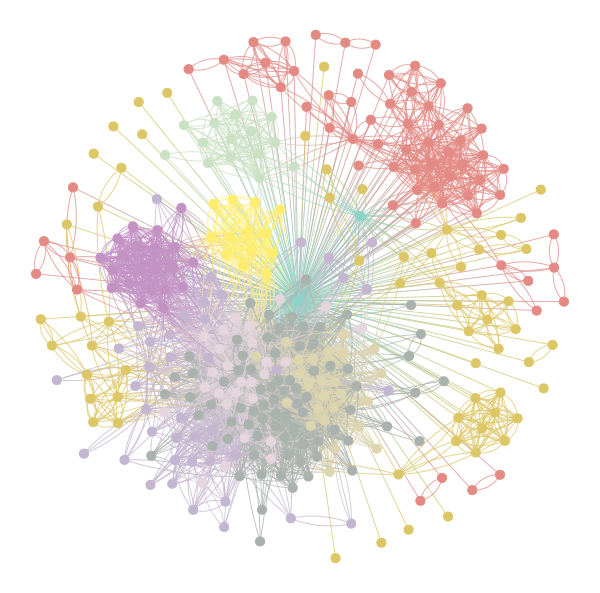
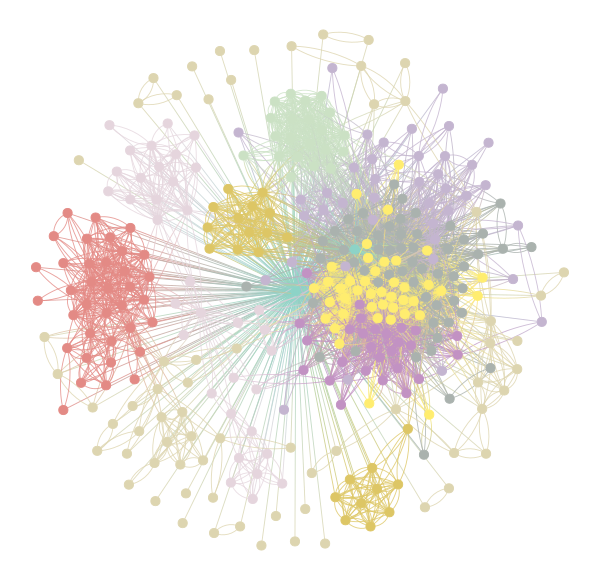
MVP Softmax classifier

diff --git a/code/inference/softmax.py b/code/inference/softmax.py
@@ -1,0 +1,157 @@
+# adapted from http://www.adeveloperdiary.com/data-science/deep-learning/neural-network-with-softmax-in-python/
+
+import numpy as np
+import matplotlib.pylab as plt
+from sklearn.preprocessing import OneHotEncoder
+
+
+class SoftmaxNeuralNet:
+
+
+    def __init__(self, layers_size):
+        """Initialise Neural Network"""
+        self.layers_size = layers_size
+        self.parameters = {}
+        self.L = len(self.layers_size)
+        self.n = 0
+        self.costs = []
+
+
+    def sigmoid(self, Z):
+        return 1 / (1 + np.exp(-Z))
+
+
+    def softmax(self, Z):
+        expZ = np.exp(Z - np.max(Z))
+        return expZ / expZ.sum(axis=0, keepdims=True)
+
+
+    def _initialize_parameters(self):
+        np.random.seed(1)
+
+        for l in range(1, len(self.layers_size)):
+            self.parameters["W" + str(l)] = np.random.randn(self.layers_size[l], self.layers_size[l - 1]) / np.sqrt(
+                self.layers_size[l - 1])
+            self.parameters["b" + str(l)] = np.zeros((self.layers_size[l], 1))
+
+
+    def _forward(self, X):
+        store = {}
+
+        A = X.T
+        ## hidden sigmoid layers
+        for l in range(self.L - 1):
+            Z = self.parameters["W" + str(l + 1)].dot(A) + \
+                self.parameters["b" + str(l + 1)]
+            A = self.sigmoid(Z)
+            store["A" + str(l + 1)] = A
+            store["W" + str(l + 1)] = self.parameters["W" + str(l + 1)]
+            store["Z" + str(l + 1)] = Z
+
+        ## final softmax layer
+        Z = self.parameters["W" + str(self.L)].dot(A) + \
+            self.parameters["b" + str(self.L)]
+        A = self.softmax(Z)
+        store["A" + str(self.L)] = A
+        store["W" + str(self.L)] = self.parameters["W" + str(self.L)]
+        store["Z" + str(self.L)] = Z
+
+        return A, store
+
+
+    def _sigmoid_derivative(self, Z):
+        s = 1 / (1 + np.exp(-Z))
+        return s * (1 - s)
+
+
+    def _backward(self, X, Y, store):
+
+        derivatives = {}
+
+        store["A0"] = X.T
+
+        A = store["A" + str(self.L)]
+        dZ = A - Y.T
+
+        dW = dZ.dot(store["A" + str(self.L - 1)].T) / self.n
+        db = np.sum(dZ, axis=1, keepdims=True) / self.n
+        dAPrev = store["W" + str(self.L)].T.dot(dZ)
+
+        derivatives["dW" + str(self.L)] = dW
+        derivatives["db" + str(self.L)] = db
+
+        for l in range(self.L - 1, 0, -1):
+            dZ = dAPrev * self._sigmoid_derivative(store["Z" + str(l)])
+            dW = 1. / self.n * dZ.dot(store["A" + str(l - 1)].T)
+            db = 1. / self.n * np.sum(dZ, axis=1, keepdims=True)
+            if l > 1:
+                dAPrev = store["W" + str(l)].T.dot(dZ)
+
+            derivatives["dW" + str(l)] = dW
+            derivatives["db" + str(l)] = db
+
+        return derivatives
+
+
+    def fit(self, X, Y, learning_rate=0.01, n_iterations=2500, seed=None):
+        """
+        Train params of Neural Net:
+            X : (n, d) array - where n is num training points and d is dimension (num features)
+            Y : (n, k) array - one-hot encoding of class labels
+            learning_rate - speed of gradient ascent
+            n_iterations - num iterations
+        """
+        if len(self.costs) > 0:
+            print("Classifier already traiend must create new instance >> ABORTING")
+            return
+
+        if seed is not None:
+            np.random.seed(seed)
+
+        self.n = X.shape[0]
+
+        if Y.shape[0] != self.layers_size[-1]:
+            Y = from_values_to_one_hot(Y)
+
+        # add input layer
+        self.layers_size.insert(0, X.shape[1])
+        self._initialize_parameters()
+        for loop in range(n_iterations):
+            A, store = self._forward(X)
+            cost = -np.mean(Y * np.log(A.T + 1e-8))
+            derivatives = self._backward(X, Y, store)
+
+            for l in range(1, self.L + 1):
+                self.parameters["W" + str(l)] = self.parameters["W" + str(l)] - learning_rate * derivatives[
+                    "dW" + str(l)]
+                self.parameters["b" + str(l)] = self.parameters["b" + str(l)] - learning_rate * derivatives[
+                    "db" + str(l)]
+
+            if loop % 100 == 0:
+                print("Cost: ", cost, "Train Accuracy:", self.predict(X, Y))
+
+            if loop % 10 == 0:
+                self.costs.append(cost)
+
+
+    def predict(self, X, Y):
+        A, _cache = self._forward(X)
+        y_hat = np.argmax(A, axis=0)
+        Y = np.argmax(Y, axis=1)
+        accuracy = (y_hat == Y).mean()
+        return accuracy * 100
+
+
+    def plot_cost(self):
+        plt.figure()
+        plt.plot(np.arange(len(self.costs)), self.costs)
+        plt.xlabel("epochs")
+        plt.ylabel("cost")
+        plt.show()
+
+
+def from_values_to_one_hot(y):
+    y = np.array(y)
+    enc = OneHotEncoder(sparse=False, categories='auto')
+    y_hot = enc.fit_transform(y.reshape(len(y), -1))
+    return y_hot

diff --git a/code/model/graph_mcmc.py b/code/model/graph_mcmc.py
@@ -4,6 +4,7 @@ from graph_tool.all import graph_draw
 from graph_tool.inference import minimize_blockmodel_dl
 import matplotlib.pyplot as plt
 from graph_tool.all import BlockState
+from inference.softmax import SoftmaxNeuralNet
 ## version focal seems to be winner
 
 
@@ -68,6 +69,35 @@ class Graph_MCMC:
             plt.show()
         else:
             print("No state partition detected >> cannot draw matrix")
+
+    
+    def train_feature_classifier(self):
+        if self.state is None:
+            print("No state partition detected >> ABORT")
+        else:
+            properties = self.G.vertex_properties
+            D = len(properties)
+
+            B = self.state.get_B()
+            vertices = self.G.get_vertices()
+            N = len(vertices)
+
+            X = np.empty((N, D))
+
+            for prop_index, (prop_name, value_map) in enumerate(properties.items()):
+                for vertex_index, vertex_id in enumerate(vertices):
+                    X[vertex_index, prop_index] = value_map[vertex_id]
+
+            blocks = self.state.get_blocks() # dictionary: vertex -> block_index
+            Y = np.empty(N)
+
+            for vertex_index, vertex in enumerate(vertices):
+                Y[vertex_index] = blocks[vertex_id]
+
+            classifier = SoftmaxNeuralNet(layers_size=[B])
+            classifier.fit(X, Y)
+
+            classifier.plot_cost()
 
     
     def plot_community_property_fractions(self):

diff --git a/code/social.py b/code/social.py
@@ -33,7 +33,7 @@ def mcmc():
     graph = Graph_MCMC(int_edges)
     vertices = graph.get_vertex_list()
     
-    selected_feat_ids = [77, 78]
+    selected_feat_ids = [77, 78, 79, 80]
 
     for feat_id in selected_feat_ids:
         feature_name = fb.feature_name(feat_id)
@@ -41,9 +41,10 @@ def mcmc():
         graph.add_property(feature_name, "bool", feature_flags)
 
     graph.partition(B_min=5, B_max=10)
-    graph.draw("partition.png")
-    graph.plot_matrix()
-    graph.plot_community_property_fractions()
+    #graph.draw("partition.png")
+    #graph.plot_matrix()
+    #graph.plot_community_property_fractions()
+    graph.train_feature_classifier()
 
 
 if __name__ == "__main__":
